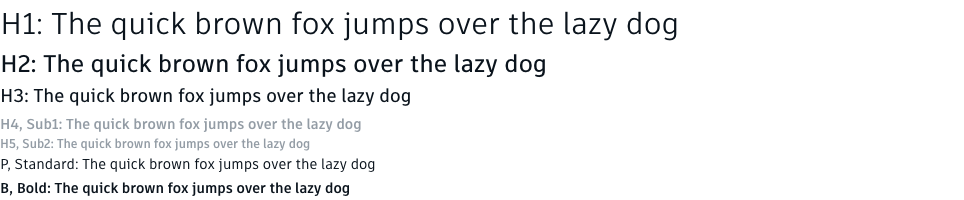
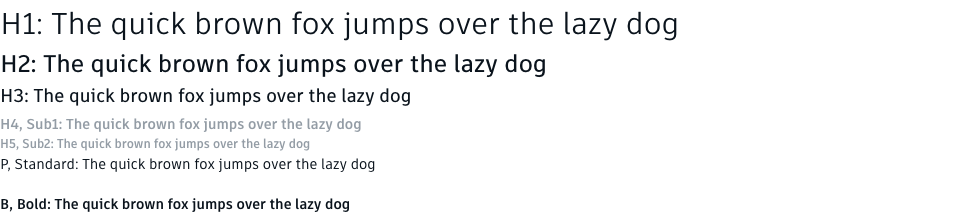
Typography P has margin-bottom
- Also, RichText expects correct prop types

diff --git a/src/implementations/react/src/hig-react.js b/src/implementations/react/src/hig-react.js
@@ -10,7 +10,7 @@ export { default as Option } from './adapters/FormElements/OptionAdapter';
 export { default as PasswordField } from './adapters/FormElements/PasswordFieldAdapter';
 export { default as RadioButton } from './adapters/FormElements/RadioButtonAdapter';
 export { default as Range } from './adapters/FormElements/RangeAdapter';
-export { default as RichText } from './adapters/RichTextAdapter';
+export { default as RichText } from './elements/components/RichText';
 export { default as Spacer } from './adapters/SpacerAdapter';
 export { default as TextArea } from './adapters/FormElements/TextAreaAdapter';
 export { default as TextField } from './adapters/FormElements/TextFieldAdapter';

diff --git a/src/implementations/vanilla/src/basics/typography/typography.scss b/src/implementations/vanilla/src/basics/typography/typography.scss
@@ -1,11 +1,13 @@
 @import '~basics/fonts/fonts.scss';
 @import '~basics/colors/colors.scss';
 @import '~helpers/css/mixins/typography-base.scss';
+@import '~helpers/css/mixins/spacing.scss';
 
 .hig__typography,
 .hig__rich-text,
 .hig__rich-text p {
   @include typography-base;
+  margin-bottom: spacing(m);
 }
 
 

diff --git a/src/implementations/react/src/elements/components/RichText.js b/src/implementations/react/src/elements/components/RichText.js
@@ -7,7 +7,7 @@ function RichText(props) {
 
 RichText.propTypes = {
   children: PropTypes.node,
-  dangerouslySetInnerHTML: PropTypes.node
+  dangerouslySetInnerHTML: PropTypes.any
 }
 
 RichText.defaultProps = {

diff --git a/src/implementations/react/src/elements/components/Typography.js b/src/implementations/react/src/elements/components/Typography.js
@@ -1,4 +1,3 @@
-// 'h1', 'h2', 'h3', 'sub1', 'sub2', 'body', 'bold', 'disabled', 'caption'
 import React from 'react';
 import Typography from '../../adapters/TypographyAdapter'
 
